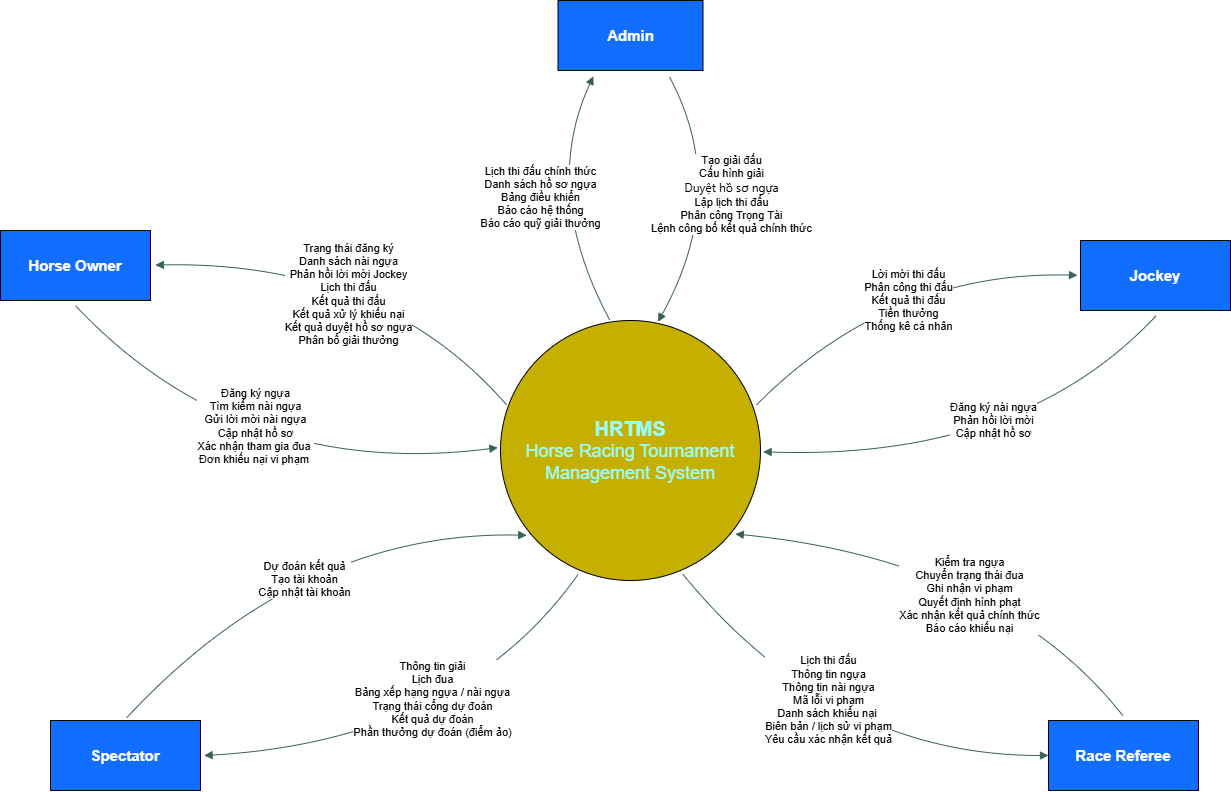
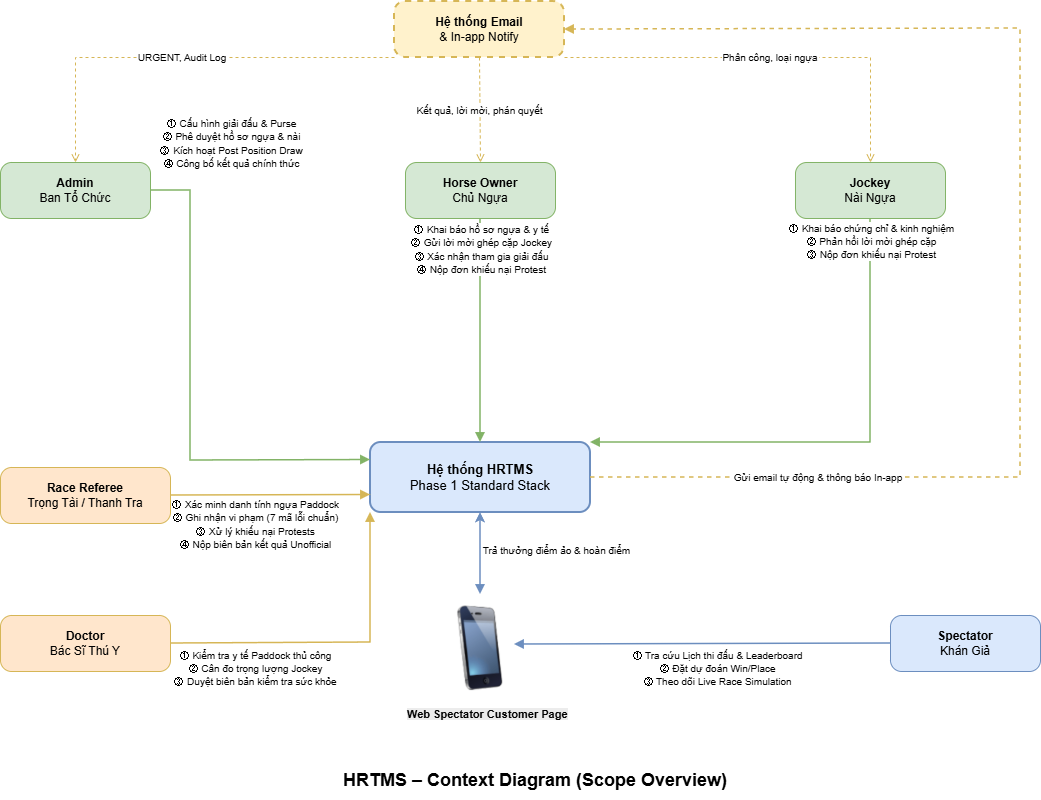
Update

diff --git a/index.html b/index.html
@@ -319,6 +319,22 @@
                 transform: translate(0)
             }
         }
+
+        /* Sidebar Toggle Styles */
+        .sidebar-collapsed aside {
+            width: 5rem !important; /* w-20 */
+        }
+        .sidebar-collapsed aside .nav-text, 
+        .sidebar-collapsed aside p, 
+        .sidebar-collapsed aside h1,
+        .sidebar-collapsed aside .phase-tag {
+            display: none !important;
+        }
+        .sidebar-collapsed aside .tab-btn {
+            justify-content: center !important;
+            padding-left: 0 !important;
+            padding-right: 0 !important;
+        }
     </style>
 </head>
 
@@ -328,13 +344,16 @@
     <canvas id="bg-canvas" class="fixed top-0 left-0 w-full h-full -z-10 pointer-events-none opacity-60"></canvas>
 
     <!-- App Wrapper -->
-    <div class="flex h-screen overflow-hidden">
+    <div id="app-wrapper" class="flex h-screen overflow-hidden">
 
         <!-- Sidebar Navigation -->
-        <aside class="w-80 flex flex-col flex-shrink-0 z-20 border-r border-[#C8A24E]/20"
+        <aside class="w-80 flex flex-col flex-shrink-0 z-20 border-r border-[#C8A24E]/20 transition-all duration-300 ease-in-out"
             style="background: linear-gradient(180deg, #0D3B2E 0%, #080C14 100%);">
             <!-- Header/Logo Section -->
             <div class="p-6 border-b border-[#C8A24E]/15 relative overflow-hidden">
+                <button id="sidebar-toggle-btn" onclick="toggleSidebar()" class="absolute top-6 right-4 p-1.5 rounded-lg bg-slate-950/40 border border-[#C8A24E]/20 hover:border-[#C8A24E]/40 text-[#FAF3E0] hover:bg-[#1A5E3F]/30 transition-all z-30">
+                    <i data-lucide="panel-left-close" id="sidebar-toggle-icon" class="w-4 h-4"></i>
+                </button>
                 <div class="absolute inset-0 starting-gate-stripe opacity-[0.06]"></div>
                 <div class="flex items-center gap-3 relative z-10">
                     <div class="p-2.5 rounded-xl shadow-lg"
@@ -343,13 +362,13 @@
                     </div>
                     <div>
                         <h1
-                            class="font-extrabold text-lg tracking-tight bg-gradient-to-r from-[#D4AF37] to-[#FAF3E0] bg-clip-text text-transparent">
+                            class="font-extrabold text-lg tracking-tight bg-gradient-to-r from-[#D4AF37] to-[#FAF3E0] bg-clip-text text-transparent nav-text">
                             HRTMS</h1>
-                        <p class="text-[10px] text-[#C8A24E]/80 font-medium tracking-widest uppercase">Horse Racing ·
+                        <p class="text-[10px] text-[#C8A24E]/80 font-medium tracking-widest uppercase nav-text">Horse Racing ·
                             SU26SWP03</p>
                     </div>
                 </div>
-                <div class="mt-4 rounded-xl p-3 border border-[#1A5E3F]/60 relative z-10"
+                <div class="mt-4 rounded-xl p-3 border border-[#1A5E3F]/60 relative z-10 phase-tag"
                     style="background: rgba(8,12,20,0.6);">
                     <div class="flex items-center justify-between text-xs">
                         <span class="text-[#FAF3E0]/60 font-medium flex items-center gap-1">
@@ -364,7 +383,7 @@
 
             <!-- Navigation Links -->
             <nav class="flex-1 p-4 space-y-1.5 overflow-y-auto">
-                <p class="px-3 text-[10px] font-bold text-[#C8A24E]/50 uppercase tracking-widest mb-2">Thuyết Trình
+                <p class="px-3 text-[10px] font-bold text-[#C8A24E]/50 uppercase tracking-widest mb-2 nav-text">Thuyết Trình
                     Nghiệp Vụ</p>
 
                 <button onclick="switchTab('overview')" id="btn-overview"
@@ -372,48 +391,48 @@
                     style="background: linear-gradient(90deg, #D4AF37, #C8A24E);">
                     <span class="flex items-center gap-3">
                         <i data-lucide="layout-dashboard" class="w-4.5 h-4.5"></i>
-                        <span>Tóm tắt dự án & Scope</span>
+                        <span class="nav-text">Tóm tắt dự án & Scope</span>
                     </span>
-                    <i data-lucide="chevron-right" class="w-4 h-4 opacity-70"></i>
+                    <i data-lucide="chevron-right" class="w-4 h-4 opacity-70 nav-text"></i>
                 </button>
 
                 <button onclick="switchTab('context')" id="btn-context"
                     class="tab-btn w-full flex items-center justify-between px-4 py-3 rounded-xl text-sm font-medium transition-all-300 text-[#FAF3E0]/50 hover:text-[#FAF3E0] hover:bg-[#1A5E3F]/30">
                     <span class="flex items-center gap-3">
                         <i data-lucide="network" class="w-4.5 h-4.5"></i>
-                        <span>Sơ đồ ngữ cảnh (Context)</span>
+                        <span class="nav-text">Sơ đồ ngữ cảnh (Context)</span>
                     </span>
-                    <i data-lucide="chevron-right" class="w-4 h-4 opacity-40"></i>
+                    <i data-lucide="chevron-right" class="w-4 h-4 opacity-40 nav-text"></i>
                 </button>
 
                 <button onclick="switchTab('swimlane')" id="btn-swimlane"
                     class="tab-btn w-full flex items-center justify-between px-4 py-3 rounded-xl text-sm font-medium transition-all-300 text-[#FAF3E0]/50 hover:text-[#FAF3E0] hover:bg-[#1A5E3F]/30">
                     <span class="flex items-center gap-3">
                         <i data-lucide="route" class="w-4.5 h-4.5"></i>
-                        <span>Sơ đồ Swimlane (6 Pha)</span>
+                        <span class="nav-text">Sơ đồ Swimlane (6 Pha)</span>
                     </span>
-                    <i data-lucide="chevron-right" class="w-4 h-4 opacity-40"></i>
+                    <i data-lucide="chevron-right" class="w-4 h-4 opacity-40 nav-text"></i>
                 </button>
 
                 <button onclick="switchTab('actors')" id="btn-actors"
                     class="tab-btn w-full flex items-center justify-between px-4 py-3 rounded-xl text-sm font-medium transition-all-300 text-[#FAF3E0]/50 hover:text-[#FAF3E0] hover:bg-[#1A5E3F]/30">
                     <span class="flex items-center gap-3">
                         <i data-lucide="users" class="w-4.5 h-4.5"></i>
-                        <span>Chi tiết Actors & Mô phỏng</span>
+                        <span class="nav-text">Chi tiết Actors & Mô phỏng</span>
                     </span>
-                    <i data-lucide="chevron-right" class="w-4 h-4 opacity-40"></i>
+                    <i data-lucide="chevron-right" class="w-4 h-4 opacity-40 nav-text"></i>
                 </button>
             </nav>
 
             <!-- Footer Section -->
-            <div class="p-4 border-t border-[#C8A24E]/15 text-xs text-center text-[#FAF3E0]/40">
+            <div class="p-4 border-t border-[#C8A24E]/15 text-xs text-center text-[#FAF3E0]/40 nav-text">
                 <p class="font-medium text-[#C8A24E]/70">Hội đồng bảo vệ đồ án</p>
                 <p class="mt-0.5">Học kỳ Summer 2026</p>
             </div>
         </aside>
 
         <!-- Main Content Viewport -->
-        <main class="flex-1 flex flex-col min-w-0 overflow-y-auto race-track-bg">
+        <main class="flex-1 flex flex-col min-w-0 overflow-y-auto race-track-bg transition-all duration-300 ease-in-out">
             <!-- Top App Bar -->
             <header
                 class="h-16 border-b border-[#C8A24E]/20 backdrop-blur px-6 flex items-center justify-between sticky top-0 z-30"
@@ -1002,7 +1021,7 @@
     </div>
     <div class="w-full overflow-x-auto scrollbar-thin">
         <div class="relative min-w-[1000px] h-[660px]" id="svg-container">
-            <svg id="branching-flow-svg" class="w-full h-full absolute inset-0 z-10">
+            <svg id="branching-flow-svg" class="w-full h-full absolute inset-0 z-10" width="100%" viewBox="0 0 1000 660">
         <defs>
             <filter id="glow" x="-20%" y="-20%" width="140%" height="140%">
                 <feGaussianBlur stdDeviation="3" result="blur" />
@@ -3839,6 +3858,24 @@
             if (originalOnload) originalOnload();
             initThreeJSBackground();
         };
+        function toggleSidebar() {
+            const wrapper = document.getElementById('app-wrapper');
+            wrapper.classList.toggle('sidebar-collapsed');
+            
+            const iconElement = document.getElementById('sidebar-toggle-icon');
+            if (wrapper.classList.contains('sidebar-collapsed')) {
+                iconElement.setAttribute('data-lucide', 'panel-left');
+            } else {
+                iconElement.setAttribute('data-lucide', 'panel-left-close');
+            }
+            lucide.createIcons();
+
+            setTimeout(() => {
+                if (typeof renderBranchingFlow === 'function') {
+                    renderBranchingFlow(typeof GLOBAL_SIM_STATE !== 'undefined' ? (GLOBAL_SIM_STATE.currentPhaseId || 1) : 1);
+                }
+            }, 310);
+        }
     </script>
 </body>
 